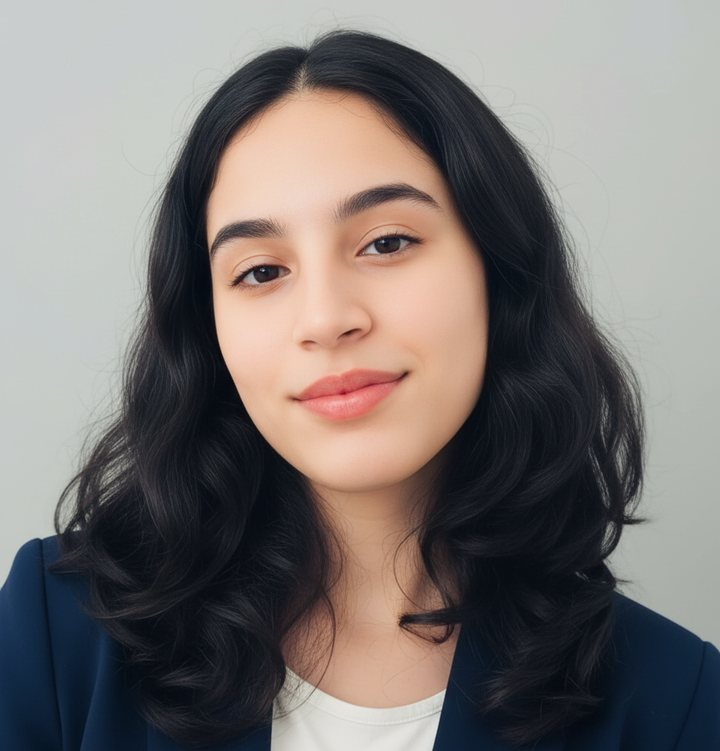
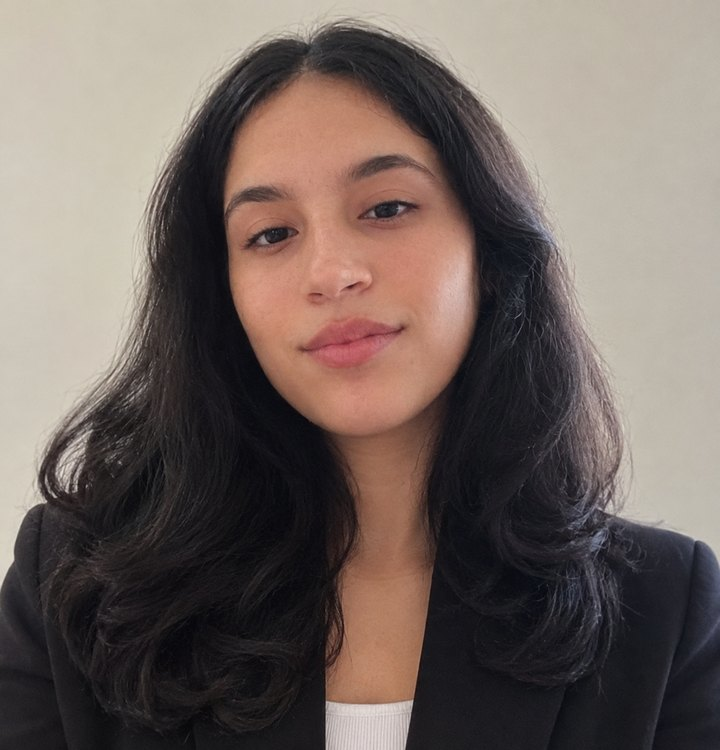
Update portrait photo

diff --git a/index.html b/index.html
@@ -61,7 +61,7 @@
       <div class="container about">
         <div class="portrait reveal">
           <div class="portrait-frame">
-            <img src="assets/eya.jpg" alt="Portrait of Eya Jmaa" width="720" height="751" loading="lazy" />
+            <img src="assets/eya.jpg" alt="Portrait of Eya Jmaa" width="720" height="750" loading="lazy" />
           </div>
         </div>
         <div class="about-text">
